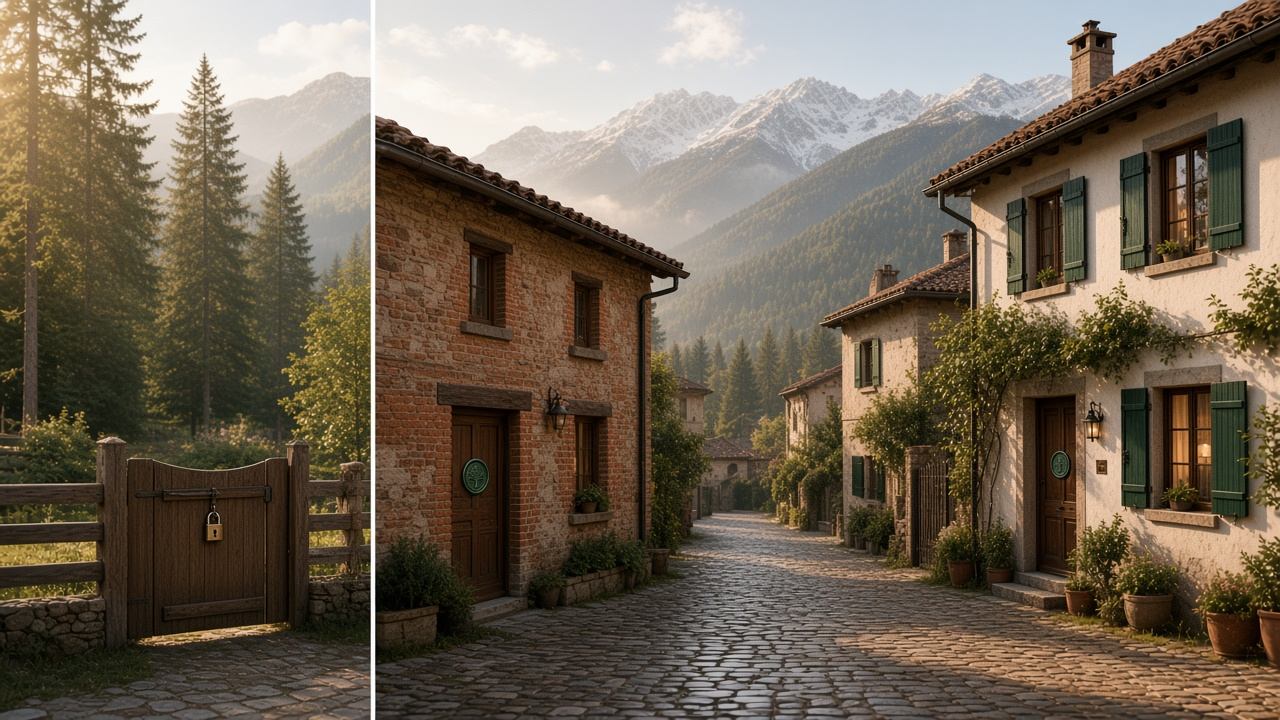
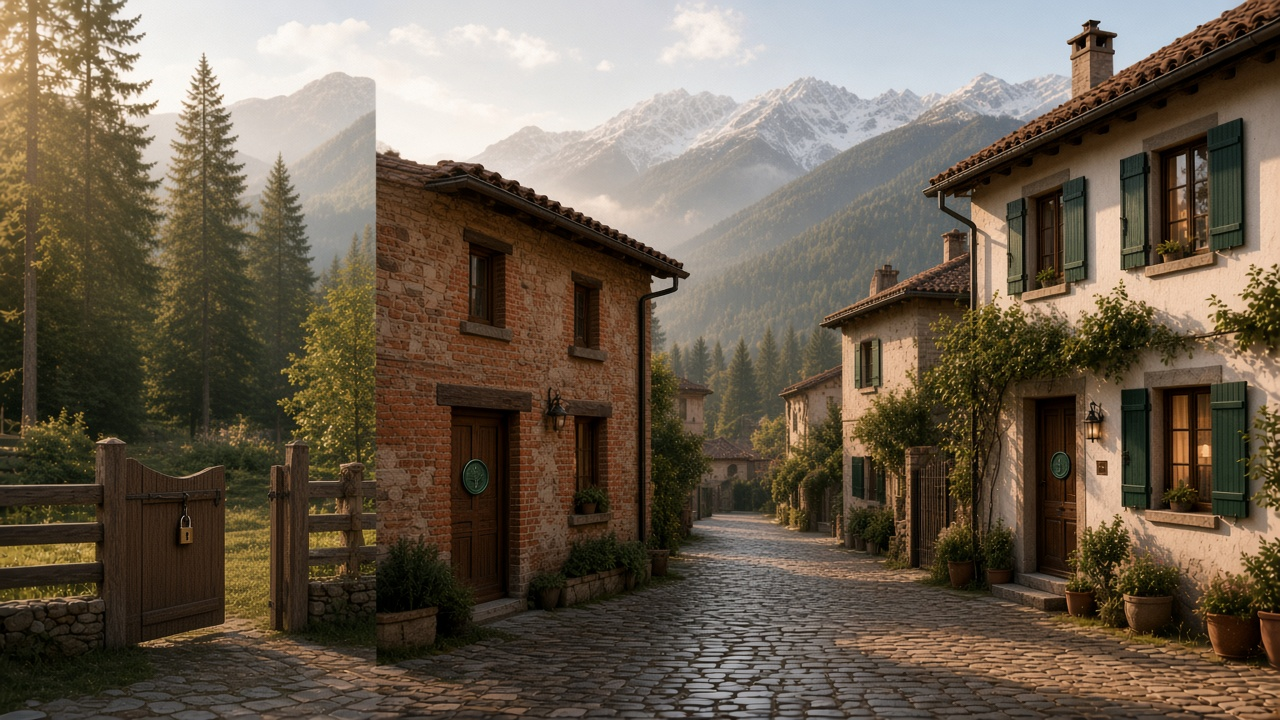
bjggbhjh

diff --git a/frontend/app/profile/workspace-personal.css b/frontend/app/profile/workspace-personal.css
@@ -128,49 +128,41 @@
   z-index: 2;
   flex: 1;
   min-height: 0;
-  overflow-x: hidden;
-  overflow-y: auto;
-  padding: 4px 16px 20px;
+  overflow: hidden;
+  padding: 4px 14px 14px;
   display: flex;
   flex-direction: column;
-  gap: 16px;
+  gap: 12px;
   background: transparent;
-  scrollbar-width: thin;
-  scrollbar-color: rgba(212, 163, 89, 0.72) transparent;
 }
 
 .mk-ledger-scroll::-webkit-scrollbar {
   width: 5px;
 }
 
-.mk-ledger-scroll::-webkit-scrollbar-track {
-  background: transparent;
-  margin: 14px 0;
-}
-
-.mk-ledger-scroll::-webkit-scrollbar-thumb {
-  border-radius: 99px;
-  background: linear-gradient(180deg, rgba(212, 163, 89, 0.9), rgba(0, 91, 72, 0.75));
-  border: 1px solid rgba(244, 240, 232, 0.35);
-}
-
-.mk-ledger-scroll::-webkit-scrollbar-thumb:hover {
-  background: linear-gradient(180deg, #d4a359, #005b48);
-}
-
-.mk-ledger-scroll::-webkit-scrollbar-button {
-  display: none;
-  height: 0;
-  width: 0;
-}
-
 .mk-ledger-desk {
   display: grid;
-  grid-template-columns: minmax(0, 1.28fr) minmax(280px, 0.72fr);
+  grid-template-columns: minmax(0, 1.28fr) minmax(260px, 0.72fr);
   gap: 14px;
   width: min(980px, 100%);
   margin: 0 auto;
   align-items: start;
+  flex: 0 1 auto;
+  max-height: 52%;
+  min-height: 0;
+  overflow-x: hidden;
+  overflow-y: auto;
+  scrollbar-width: thin;
+  scrollbar-color: rgba(212, 163, 89, 0.72) transparent;
+}
+
+.mk-ledger-desk::-webkit-scrollbar {
+  width: 5px;
+}
+
+.mk-ledger-desk::-webkit-scrollbar-thumb {
+  border-radius: 99px;
+  background: linear-gradient(180deg, rgba(212, 163, 89, 0.9), rgba(0, 91, 72, 0.75));
 }
 
 /* --------------------------------------------------------------------------
@@ -808,8 +800,12 @@
    -------------------------------------------------------------------------- */
 
 .mk-street {
-  width: min(980px, 100%);
-  margin: 0 auto;
+  flex: 1 1 48%;
+  min-height: 240px;
+  width: 100%;
+  margin: 0;
+  display: flex;
+  flex-direction: column;
 }
 
 .mk-street-head {
@@ -817,7 +813,9 @@
   flex-direction: column;
   align-items: flex-start;
   gap: 2px;
-  margin-bottom: 10px;
+  margin-bottom: 8px;
+  padding: 0 2px;
+  flex-shrink: 0;
 }
 
 .mk-street-head span {
@@ -836,7 +834,8 @@
 
 .mk-street-view {
   position: relative;
-  height: min(28vh, 240px);
+  flex: 1;
+  min-height: 220px;
   overflow: hidden;
   border-radius: 14px;
   border: 1px solid rgba(212, 163, 89, 0.4);
@@ -845,41 +844,41 @@
 
 .mk-street-img {
   object-fit: cover;
-  object-position: center 58%;
+  object-position: center 62%;
 }
 
 .mk-street-spot {
   position: absolute;
   z-index: 2;
-  width: min(210px, 32%);
-  padding: 10px 12px 11px;
+  width: min(176px, 28%);
+  padding: 8px 10px 9px;
   text-align: right;
   border: 0;
-  border-radius: 12px;
-  background: rgba(244, 240, 232, 0.9);
-  backdrop-filter: blur(14px);
-  -webkit-backdrop-filter: blur(14px);
-  box-shadow: 0 10px 24px rgba(0, 12, 10, 0.18);
+  border-radius: 10px;
+  background: rgba(244, 240, 232, 0.92);
+  backdrop-filter: blur(12px);
+  -webkit-backdrop-filter: blur(12px);
+  box-shadow: 0 8px 20px rgba(0, 12, 10, 0.18);
   color: inherit;
   font-family: inherit;
 }
 
 .mk-street-spot.is-home {
-  right: 5%;
-  bottom: 14px;
+  right: 7%;
+  bottom: 16px;
 }
 
 .mk-street-spot.is-office {
-  left: 50%;
-  bottom: 14px;
-  transform: translateX(-50%);
+  left: 26%;
+  bottom: 16px;
+  transform: none;
 }
 
 .mk-street-spot.is-add {
-  left: 4%;
-  bottom: 14px;
+  left: 3%;
+  bottom: 16px;
   cursor: pointer;
-  background: rgba(244, 240, 232, 0.78);
+  background: rgba(244, 240, 232, 0.82);
   border: 1px dashed rgba(0, 91, 72, 0.4);
 }
 
@@ -927,10 +926,11 @@
 @media (max-width: 920px) {
   .mk-ledger-desk {
     grid-template-columns: 1fr;
+    max-height: 46%;
   }
 
-  .mk-street-view {
-    height: min(42vh, 320px);
+  .mk-street {
+    min-height: 260px;
   }
 
   .mk-street-spot {

diff --git a/frontend/app/profile/page.tsx b/frontend/app/profile/page.tsx
@@ -973,7 +973,7 @@ function ProfileContent() {
                         >
                           <span className="mk-street-tag">در باغ</span>
                           <strong>نشانی تازه</strong>
-                          <p>قطعهٔ خالی کنار جاده؛ اینجا میتوان ایستگاه جدید گذاشت.</p>
+                          <p>قطعهٔ خالی کنار در باغ.</p>
                         </button>
                       </div>
                     </section>
